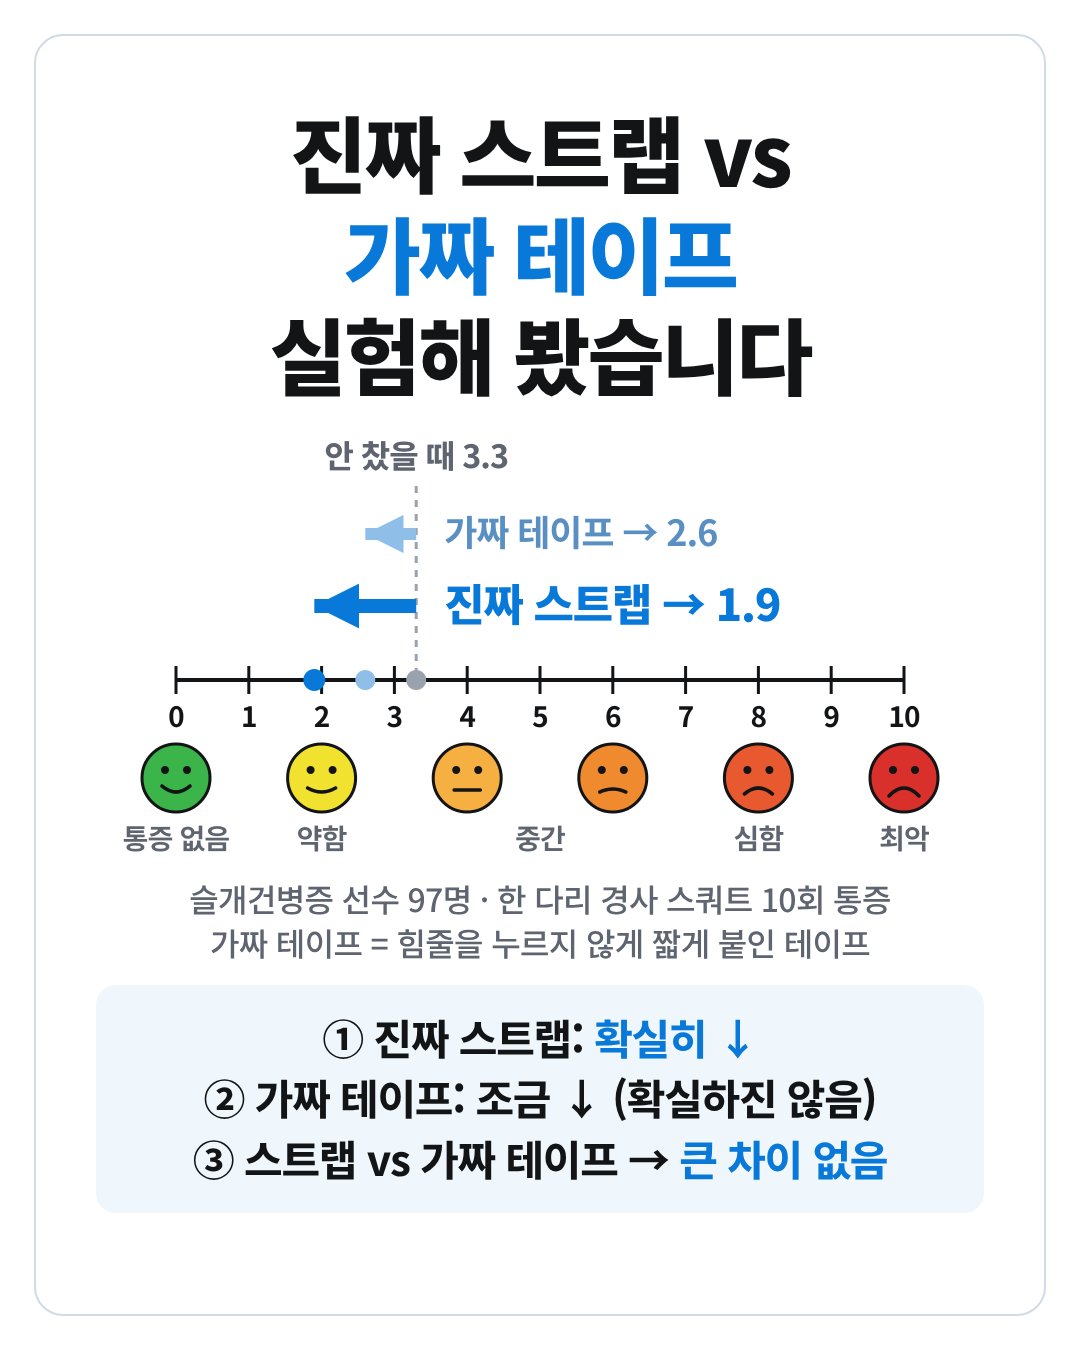
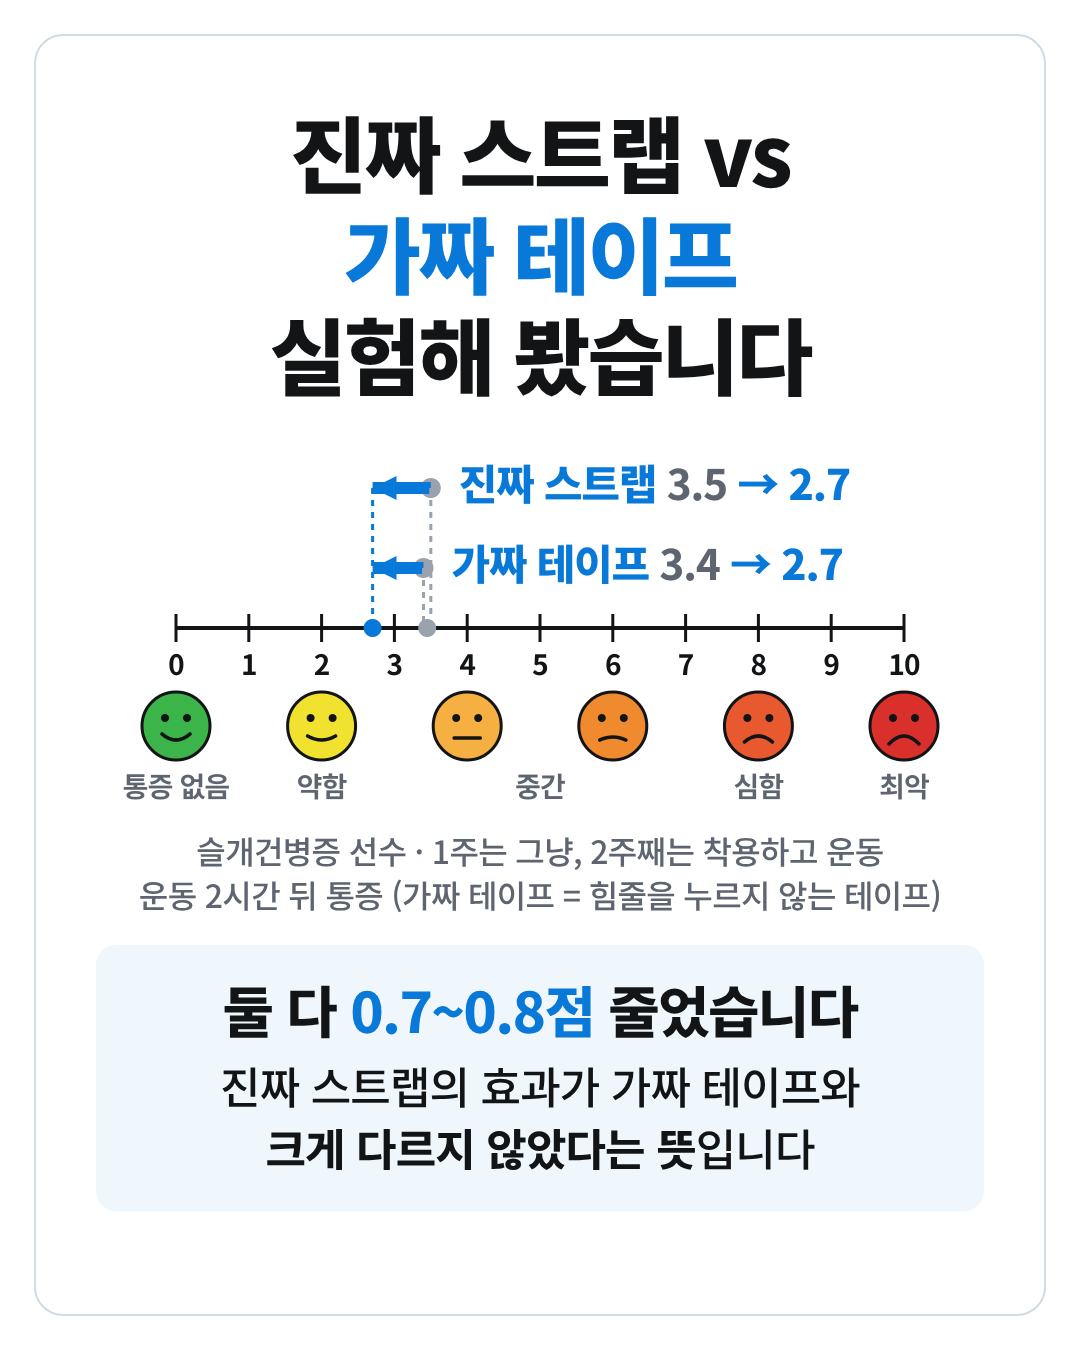
Patellar strap card 03: each group's pre-study pain to post, strap and placebo drawn identically
Values from de Vries 2016 Fig. 4 (2 h after sports, week 1 none vs week 2 orthosis).

Claude-Session: https://claude.ai/code/session_01GjYRY9i7LLGWcysU9DHVMw

Changed region(s): [[0.1222, 0.3111, 0.8861, 0.8711], [0.7028, 0.3422, 0.7944, 0.3733]]

diff --git a/content/patellar-strap-runners/source/charts/vas.html b/content/patellar-strap-runners/source/charts/vas.html
@@ -1,30 +1,22 @@
 <!doctype html><html lang="ko"><head><meta charset="utf-8"><style>
 @font-face{font-family:'Noto Sans KR';src:url('../../../../templates/fonts/NotoSansKR-VF.ttf');font-weight:100 900}
 html,body{margin:0;padding:0;background:#fff}
-.c{position:relative;width:888px;height:440px;font-family:'Noto Sans KR',sans-serif;color:#121416;overflow:hidden}
+.c{position:relative;width:888px;height:384px;font-family:'Noto Sans KR',sans-serif;color:#121416;overflow:hidden}
 .t{position:absolute;letter-spacing:-.03em;line-height:1.2;white-space:nowrap}
 .n{top:270px;width:60px;text-align:center;font-size:28px;font-weight:700}
 .k{top:392px;width:160px;text-align:center;font-size:28px;font-weight:650;color:#5e6570}
 svg{position:absolute;left:0;top:0}
+.c>*{transform:translateY(-56px)}
 </style></head><body><div class="c">
-<!-- 0~10 얼굴 통증 척도 (de Vries 2016 Table 2 VAS 0~100mm 중앙값 ÷10): 안 참 3.3, 가짜 테이프 2.6, 스트랩 1.9 -->
+<!-- 0~10 얼굴 통증 척도. de Vries 2016 Fig.4(운동 2시간 뒤 VAS 추정 평균, 1주 미착용→2주 착용)를 그림에서 읽어 ÷10:
+     스트랩 35.1→27.5(본문 −8mm), 가짜 테이프 34.4→26.8(본문 −7mm) -->
 <svg width="888" height="440" viewBox="0 0 888 440">
- <defs>
-  <marker id="hb" viewBox="0 0 10 10" refX="10" refY="5" markerWidth="3.2" markerHeight="3.2" orient="auto"><path d="M0,0 L10,5 L0,10 z" fill="#0879d8"/></marker>
-  <marker id="hl" viewBox="0 0 10 10" refX="10" refY="5" markerWidth="3.2" markerHeight="3.2" orient="auto"><path d="M0,0 L10,5 L0,10 z" fill="#8fbfe9"/></marker>
- </defs>
- <line x1="320.2" y1="56" x2="320.2" y2="250" stroke="#9aa3ad" stroke-width="3" stroke-dasharray="7 7"/>
- <line x1="320.2" y1="104" x2="269.3" y2="104" stroke="#8fbfe9" stroke-width="12" marker-end="url(#hl)"/>
- <line x1="320.2" y1="176" x2="218.3" y2="176" stroke="#0879d8" stroke-width="14" marker-end="url(#hb)"/>
+ <defs><marker id="hb" viewBox="0 0 10 10" refX="10" refY="5" markerWidth="2" markerHeight="2" orient="auto"><path d="M0,0 L10,5 L0,10 z" fill="#0879d8"/></marker></defs>
+ <circle cx="334.8" cy="110" r="10" fill="#9aa3ad"/><line x1="334.8" y1="110" x2="276.6" y2="110" stroke="#0879d8" stroke-width="12" marker-end="url(#hb)"/><circle cx="327.5" cy="190" r="10" fill="#9aa3ad"/><line x1="327.5" y1="190" x2="276.6" y2="190" stroke="#0879d8" stroke-width="12" marker-end="url(#hb)"/>
+ <line x1="334.8" y1="110" x2="334.8" y2="250" stroke="#9aa3ad" stroke-width="3" stroke-dasharray="6 6"/><line x1="327.5" y1="190" x2="327.5" y2="250" stroke="#9aa3ad" stroke-width="3" stroke-dasharray="6 6"/><line x1="276.6" y1="110" x2="276.6" y2="250" stroke="#0879d8" stroke-width="3" stroke-dasharray="6 6"/>
  <line x1="80.0" y1="250" x2="808.0" y2="250" stroke="#121416" stroke-width="4"/>
  <line x1="80.0" y1="236" x2="80.0" y2="264" stroke="#121416" stroke-width="3"/><line x1="152.8" y1="236" x2="152.8" y2="264" stroke="#121416" stroke-width="3"/><line x1="225.6" y1="236" x2="225.6" y2="264" stroke="#121416" stroke-width="3"/><line x1="298.4" y1="236" x2="298.4" y2="264" stroke="#121416" stroke-width="3"/><line x1="371.2" y1="236" x2="371.2" y2="264" stroke="#121416" stroke-width="3"/><line x1="444.0" y1="236" x2="444.0" y2="264" stroke="#121416" stroke-width="3"/><line x1="516.8" y1="236" x2="516.8" y2="264" stroke="#121416" stroke-width="3"/><line x1="589.6" y1="236" x2="589.6" y2="264" stroke="#121416" stroke-width="3"/><line x1="662.4" y1="236" x2="662.4" y2="264" stroke="#121416" stroke-width="3"/><line x1="735.2" y1="236" x2="735.2" y2="264" stroke="#121416" stroke-width="3"/><line x1="808.0" y1="236" x2="808.0" y2="264" stroke="#121416" stroke-width="3"/>
- <circle cx="320.2" cy="250" r="10" fill="#9aa3ad"/>
- <circle cx="269.3" cy="250" r="10" fill="#8fbfe9"/>
- <circle cx="218.3" cy="250" r="11" fill="#0879d8"/>
- <g transform="translate(80.0,348)"><circle r="34" fill="#3BB54A" stroke="#121416" stroke-width="3"/><circle cx="-11" cy="-8" r="4" fill="#121416"/><circle cx="11" cy="-8" r="4" fill="#121416"/><path d="M-14,8 Q0,20 14,8" fill="none" stroke="#121416" stroke-width="3.5" stroke-linecap="round"/></g><g transform="translate(225.6,348)"><circle r="34" fill="#F2E230" stroke="#121416" stroke-width="3"/><circle cx="-11" cy="-8" r="4" fill="#121416"/><circle cx="11" cy="-8" r="4" fill="#121416"/><path d="M-14,10 Q0,18 14,10" fill="none" stroke="#121416" stroke-width="3.5" stroke-linecap="round"/></g><g transform="translate(371.2,348)"><circle r="34" fill="#F5B041" stroke="#121416" stroke-width="3"/><circle cx="-11" cy="-8" r="4" fill="#121416"/><circle cx="11" cy="-8" r="4" fill="#121416"/><path d="M-13,12 L13,12" fill="none" stroke="#121416" stroke-width="3.5" stroke-linecap="round"/></g><g transform="translate(516.8,348)"><circle r="34" fill="#EF8A2E" stroke="#121416" stroke-width="3"/><circle cx="-11" cy="-8" r="4" fill="#121416"/><circle cx="11" cy="-8" r="4" fill="#121416"/><path d="M-13,14 Q0,8 13,14" fill="none" stroke="#121416" stroke-width="3.5" stroke-linecap="round"/></g><g transform="translate(662.4,348)"><circle r="34" fill="#E8592F" stroke="#121416" stroke-width="3"/><circle cx="-11" cy="-8" r="4" fill="#121416"/><circle cx="11" cy="-8" r="4" fill="#121416"/><path d="M-14,16 Q0,4 14,16" fill="none" stroke="#121416" stroke-width="3.5" stroke-linecap="round"/></g><g transform="translate(808.0,348)"><circle r="34" fill="#D9302C" stroke="#121416" stroke-width="3"/><circle cx="-11" cy="-8" r="4" fill="#121416"/><circle cx="11" cy="-8" r="4" fill="#121416"/><path d="M-15,18 Q0,2 15,18" fill="none" stroke="#121416" stroke-width="3.5" stroke-linecap="round"/></g>
+<circle cx="331.2" cy="250" r="9" fill="#9aa3ad"/><circle cx="276.6" cy="250" r="9" fill="#0879d8"/> <g transform="translate(80.0,348)"><circle r="34" fill="#3BB54A" stroke="#121416" stroke-width="3"/><circle cx="-11" cy="-8" r="4" fill="#121416"/><circle cx="11" cy="-8" r="4" fill="#121416"/><path d="M-14,8 Q0,20 14,8" fill="none" stroke="#121416" stroke-width="3.5" stroke-linecap="round"/></g><g transform="translate(225.6,348)"><circle r="34" fill="#F2E230" stroke="#121416" stroke-width="3"/><circle cx="-11" cy="-8" r="4" fill="#121416"/><circle cx="11" cy="-8" r="4" fill="#121416"/><path d="M-14,10 Q0,18 14,10" fill="none" stroke="#121416" stroke-width="3.5" stroke-linecap="round"/></g><g transform="translate(371.2,348)"><circle r="34" fill="#F5B041" stroke="#121416" stroke-width="3"/><circle cx="-11" cy="-8" r="4" fill="#121416"/><circle cx="11" cy="-8" r="4" fill="#121416"/><path d="M-13,12 L13,12" fill="none" stroke="#121416" stroke-width="3.5" stroke-linecap="round"/></g><g transform="translate(516.8,348)"><circle r="34" fill="#EF8A2E" stroke="#121416" stroke-width="3"/><circle cx="-11" cy="-8" r="4" fill="#121416"/><circle cx="11" cy="-8" r="4" fill="#121416"/><path d="M-13,14 Q0,8 13,14" fill="none" stroke="#121416" stroke-width="3.5" stroke-linecap="round"/></g><g transform="translate(662.4,348)"><circle r="34" fill="#E8592F" stroke="#121416" stroke-width="3"/><circle cx="-11" cy="-8" r="4" fill="#121416"/><circle cx="11" cy="-8" r="4" fill="#121416"/><path d="M-14,16 Q0,4 14,16" fill="none" stroke="#121416" stroke-width="3.5" stroke-linecap="round"/></g><g transform="translate(808.0,348)"><circle r="34" fill="#D9302C" stroke="#121416" stroke-width="3"/><circle cx="-11" cy="-8" r="4" fill="#121416"/><circle cx="11" cy="-8" r="4" fill="#121416"/><path d="M-15,18 Q0,2 15,18" fill="none" stroke="#121416" stroke-width="3.5" stroke-linecap="round"/></g>
 </svg>
-<div class="t" style="left:170.2px;width:300px;text-align:center;top:6px;font-size:32px;font-weight:750;color:#5e6570">안 찼을 때 3.3</div>
-<div class="t" style="left:348.2px;top:80px;font-size:36px;font-weight:700;color:#5a8fc4">가짜 테이프 → 2.6</div>
-<div class="t" style="left:348.2px;top:148px;font-size:44px;font-weight:850;color:#0879d8">진짜 스트랩 → 1.9</div>
-<div class="t n" style="left:50.0px">0</div><div class="t n" style="left:122.8px">1</div><div class="t n" style="left:195.6px">2</div><div class="t n" style="left:268.4px">3</div><div class="t n" style="left:341.2px">4</div><div class="t n" style="left:414.0px">5</div><div class="t n" style="left:486.8px">6</div><div class="t n" style="left:559.6px">7</div><div class="t n" style="left:632.4px">8</div><div class="t n" style="left:705.2px">9</div><div class="t n" style="left:778.0px">10</div><div class="t k" style="left:0.0px">통증 없음</div><div class="t k" style="left:145.6px">약함</div><div class="t k" style="left:364.0px">중간</div><div class="t k" style="left:582.4px">심함</div><div class="t k" style="left:728.0px">최악</div>
+<div class="t" style="left:362.8px;top:80px;font-size:42px;font-weight:850;color:#0879d8">진짜 스트랩 <span style="color:#5e6570;font-weight:750">3.5</span> → 2.7</div><div class="t" style="left:355.5px;top:160px;font-size:42px;font-weight:850;color:#0879d8">가짜 테이프 <span style="color:#5e6570;font-weight:750">3.4</span> → 2.7</div><div class="t n" style="left:50.0px">0</div><div class="t n" style="left:122.8px">1</div><div class="t n" style="left:195.6px">2</div><div class="t n" style="left:268.4px">3</div><div class="t n" style="left:341.2px">4</div><div class="t n" style="left:414.0px">5</div><div class="t n" style="left:486.8px">6</div><div class="t n" style="left:559.6px">7</div><div class="t n" style="left:632.4px">8</div><div class="t n" style="left:705.2px">9</div><div class="t n" style="left:778.0px">10</div><div class="t k" style="left:0.0px">통증 없음</div><div class="t k" style="left:145.6px">약함</div><div class="t k" style="left:364.0px">중간</div><div class="t k" style="left:582.4px">심함</div><div class="t k" style="left:728.0px">최악</div>
 </div></body></html>

diff --git a/content/patellar-strap-runners/source/03.html b/content/patellar-strap-runners/source/03.html
@@ -27,7 +27,7 @@ h1,p{margin:0;text-align:center}
 .flow{font-size:42px;font-weight:750;line-height:1.3;letter-spacing:-.03em}
 .arrow{font-size:34px;font-weight:800;line-height:1.05;color:var(--blue)}
 .box{background:var(--tint);border-radius:20px;padding:32px 40px;width:888px}
-</style></head><body><article class="card kind-effect"><svg class="card-frame" width="1080" height="1350" viewBox="0 0 1080 1350" aria-hidden="true"><rect x="35" y="35" width="1010" height="1280" rx="28" fill="none" stroke="#D0DCE5" stroke-width="2"/></svg><h1 class="headline">진짜 스트랩 vs<br><span class="accent">가짜 테이프</span><br>실험해 봤습니다</h1><div style="height:24px;flex:none"></div><div class="photo" style="height:440px"><img src="../assets/charts/vas.png" alt="0~10 얼굴 통증 척도: 안 찼을 때 3.3에서 가짜 테이프 2.6, 진짜 스트랩 1.9로 감소" style="width:888px;left:0;top:0"></div><div style="height:8px;flex:none"></div><p class="note" style="font-size:32px;line-height:1.35">슬개건병증 선수 97명 · 한 다리 경사 스쿼트 10회 통증<br>가짜 테이프 = 힘줄을 누르지 않게 짧게 붙인 테이프</p><div style="height:20px;flex:none"></div><div class="box" style="padding:26px 40px;display:flex;flex-direction:column;gap:6px"><p class="flow">① 진짜 스트랩: <span class="accent">확실히 ↓</span></p><p class="flow">② 가짜 테이프: 조금 ↓ (확실하진 않음)</p><p class="flow">③ 스트랩 vs 가짜 테이프 → <span class="accent">큰 차이 없음</span></p></div></article><script>// ?qa 로 열 때만 실행: contentBottom(실제 마지막 텍스트 줄/이미지), 안전영역, 넘침, 정렬, 폰트 크기를 기록한다.
+</style></head><body><article class="card kind-effect"><svg class="card-frame" width="1080" height="1350" viewBox="0 0 1080 1350" aria-hidden="true"><rect x="35" y="35" width="1010" height="1280" rx="28" fill="none" stroke="#D0DCE5" stroke-width="2"/></svg><h1 class="headline">진짜 스트랩 vs<br><span class="accent">가짜 테이프</span><br>실험해 봤습니다</h1><div style="height:28px;flex:none"></div><div class="photo" style="height:384px"><img src="../assets/charts/vas.png" alt="0~10 얼굴 통증 척도: 진짜 스트랩 3.5에서 2.7, 가짜 테이프 3.4에서 2.7로 감소" style="width:888px;left:0;top:0"></div><div style="height:12px;flex:none"></div><p class="note" style="font-size:32px;line-height:1.35">슬개건병증 선수 · 1주는 그냥, 2주째는 착용하고 운동<br>운동 2시간 뒤 통증 (가짜 테이프 = 힘줄을 누르지 않는 테이프)</p><div style="height:28px;flex:none"></div><div class="box" style="padding:30px 40px;display:flex;flex-direction:column;gap:8px"><p class="key">둘 다 <span class="accent">0.7~0.8점</span> 줄었습니다</p><p class="body">진짜 스트랩의 효과가 가짜 테이프와<br><span class="strong">크게 다르지 않았다는 뜻</span>입니다</p></div></article><script>// ?qa 로 열 때만 실행: contentBottom(실제 마지막 텍스트 줄/이미지), 안전영역, 넘침, 정렬, 폰트 크기를 기록한다.
 if (location.search.includes('qa')) (async () => {
   await document.fonts.ready;
   await Promise.all([...document.images].map(i => i.decode().catch(() => {})));

diff --git a/content/patellar-strap-runners/source/build.py b/content/patellar-strap-runners/source/build.py
@@ -69,15 +69,14 @@ CARDS = [
         '<div class="slot" style="height:580px"><p class="tag">사진 넣는 자리</p>'
         '<p class="guide">스트랩을 찬 무릎 · 정면 또는 옆모습<br>띠가 무릎뼈 바로 아래 힘줄 위를 지나게</p></div>', gap(44),
         '<p class="body">무릎뼈와 정강이를 잇는 <span class="strong">힘줄</span> 위를<br>지나갑니다. 점프·착지에서 이 힘줄이<br>아픈 ‘점퍼 무릎’에서 주로 연구됐습니다.</p>']),
-    # 03 효과 — 얼굴 통증 척도 (de Vries 2016 Table 2 중앙값 ÷10)
+    # 03 효과 — 얼굴 통증 척도, 각 군의 착용 전 통증 → 착용 후 (de Vries 2016 Fig.4)
     ('kind-effect', [
-        '<h1 class="headline">진짜 스트랩 vs<br><span class="accent">가짜 테이프</span><br>실험해 봤습니다</h1>', gap(24),
-        '<div class="photo" style="height:440px"><img src="../assets/charts/vas.png" alt="0~10 얼굴 통증 척도: 안 찼을 때 3.3에서 가짜 테이프 2.6, 진짜 스트랩 1.9로 감소" style="width:888px;left:0;top:0"></div>', gap(8),
-        '<p class="note" style="font-size:32px;line-height:1.35">슬개건병증 선수 97명 · 한 다리 경사 스쿼트 10회 통증<br>가짜 테이프 = 힘줄을 누르지 않게 짧게 붙인 테이프</p>', gap(20),
-        '<div class="box" style="padding:26px 40px;display:flex;flex-direction:column;gap:6px">'
-        '<p class="flow">① 진짜 스트랩: <span class="accent">확실히 ↓</span></p>'
-        '<p class="flow">② 가짜 테이프: 조금 ↓ (확실하진 않음)</p>'
-        '<p class="flow">③ 스트랩 vs 가짜 테이프 → <span class="accent">큰 차이 없음</span></p></div>']),
+        '<h1 class="headline">진짜 스트랩 vs<br><span class="accent">가짜 테이프</span><br>실험해 봤습니다</h1>', gap(28),
+        '<div class="photo" style="height:384px"><img src="../assets/charts/vas.png" alt="0~10 얼굴 통증 척도: 진짜 스트랩 3.5에서 2.7, 가짜 테이프 3.4에서 2.7로 감소" style="width:888px;left:0;top:0"></div>', gap(12),
+        '<p class="note" style="font-size:32px;line-height:1.35">슬개건병증 선수 · 1주는 그냥, 2주째는 착용하고 운동<br>운동 2시간 뒤 통증 (가짜 테이프 = 힘줄을 누르지 않는 테이프)</p>', gap(28),
+        '<div class="box" style="padding:30px 40px;display:flex;flex-direction:column;gap:8px">'
+        '<p class="key">둘 다 <span class="accent">0.7~0.8점</span> 줄었습니다</p>'
+        '<p class="body">진짜 스트랩의 효과가 가짜 테이프와<br><span class="strong">크게 다르지 않았다는 뜻</span>입니다</p></div>']),
     # 04 기전 가설 ① 흐름 + X선
     ('kind-mech1', [
         '<h1 class="headline">기전 가설 ①<br><span class="accent">힘줄이 덜 당겨진다?</span></h1>', gap(32),

diff --git a/content/patellar-strap-runners/assets/asset_manifest.md b/content/patellar-strap-runners/assets/asset_manifest.md
@@ -22,4 +22,4 @@
 - Noto Sans KR VF, RCardnews W500~W850: SIL OFL 1.1. AI 생성 이미지 없음. 데이터 그래프 없음.
 
 ## 데이터 그래픽
-- charts/vas.png(03): 0~10 얼굴 통증 척도(얼굴 6개·눈금·“통증 없음~최악”) + 화살표. 자체 제작(source/charts/vas.html). 값은 de Vries 2016 원문 Table 2의 한 다리 경사 스쿼트 10회 VAS 중앙값(0~100mm)을 10으로 나눠 환산: 안 참 33→3.3, 가짜 테이프 26→2.6, 스트랩 19→1.9. “안 찼을 때”는 같은 날 아무것도 안 찬 조건이며 연구 시작 전 통증이 아님. 사용자가 보여 준 영어 얼굴 척도 이미지는 출처·사용권 불명이라 그대로 쓰지 않고 같은 형식으로 새로 그림.
+- charts/vas.png(03): 0~10 얼굴 통증 척도 + 진짜 스트랩·가짜 테이프 화살표(같은 색·굵기). 자체 제작(source/charts/vas.html). 값: de Vries 2016 원문 Fig.4(2부, 운동 2시간 뒤 VAS 추정 평균, 1주 미착용 → 2주 착용)를 그림에서 읽어 10으로 나눔 — 스트랩 35.1→27.5 ≈ 3.5→2.7(본문 −8mm, P<.001, n=21), 가짜 테이프 34.4→26.8 ≈ 3.4→2.7(본문 −7mm, P=.03, n=16). 그림 판독값이라 ±0.1 오차 가능. 스트랩 vs 가짜 테이프 차이 없음(본문). 사용자가 보여 준 영어 얼굴 척도 이미지는 출처·사용권 불명이라 같은 형식으로 새로 그림.
